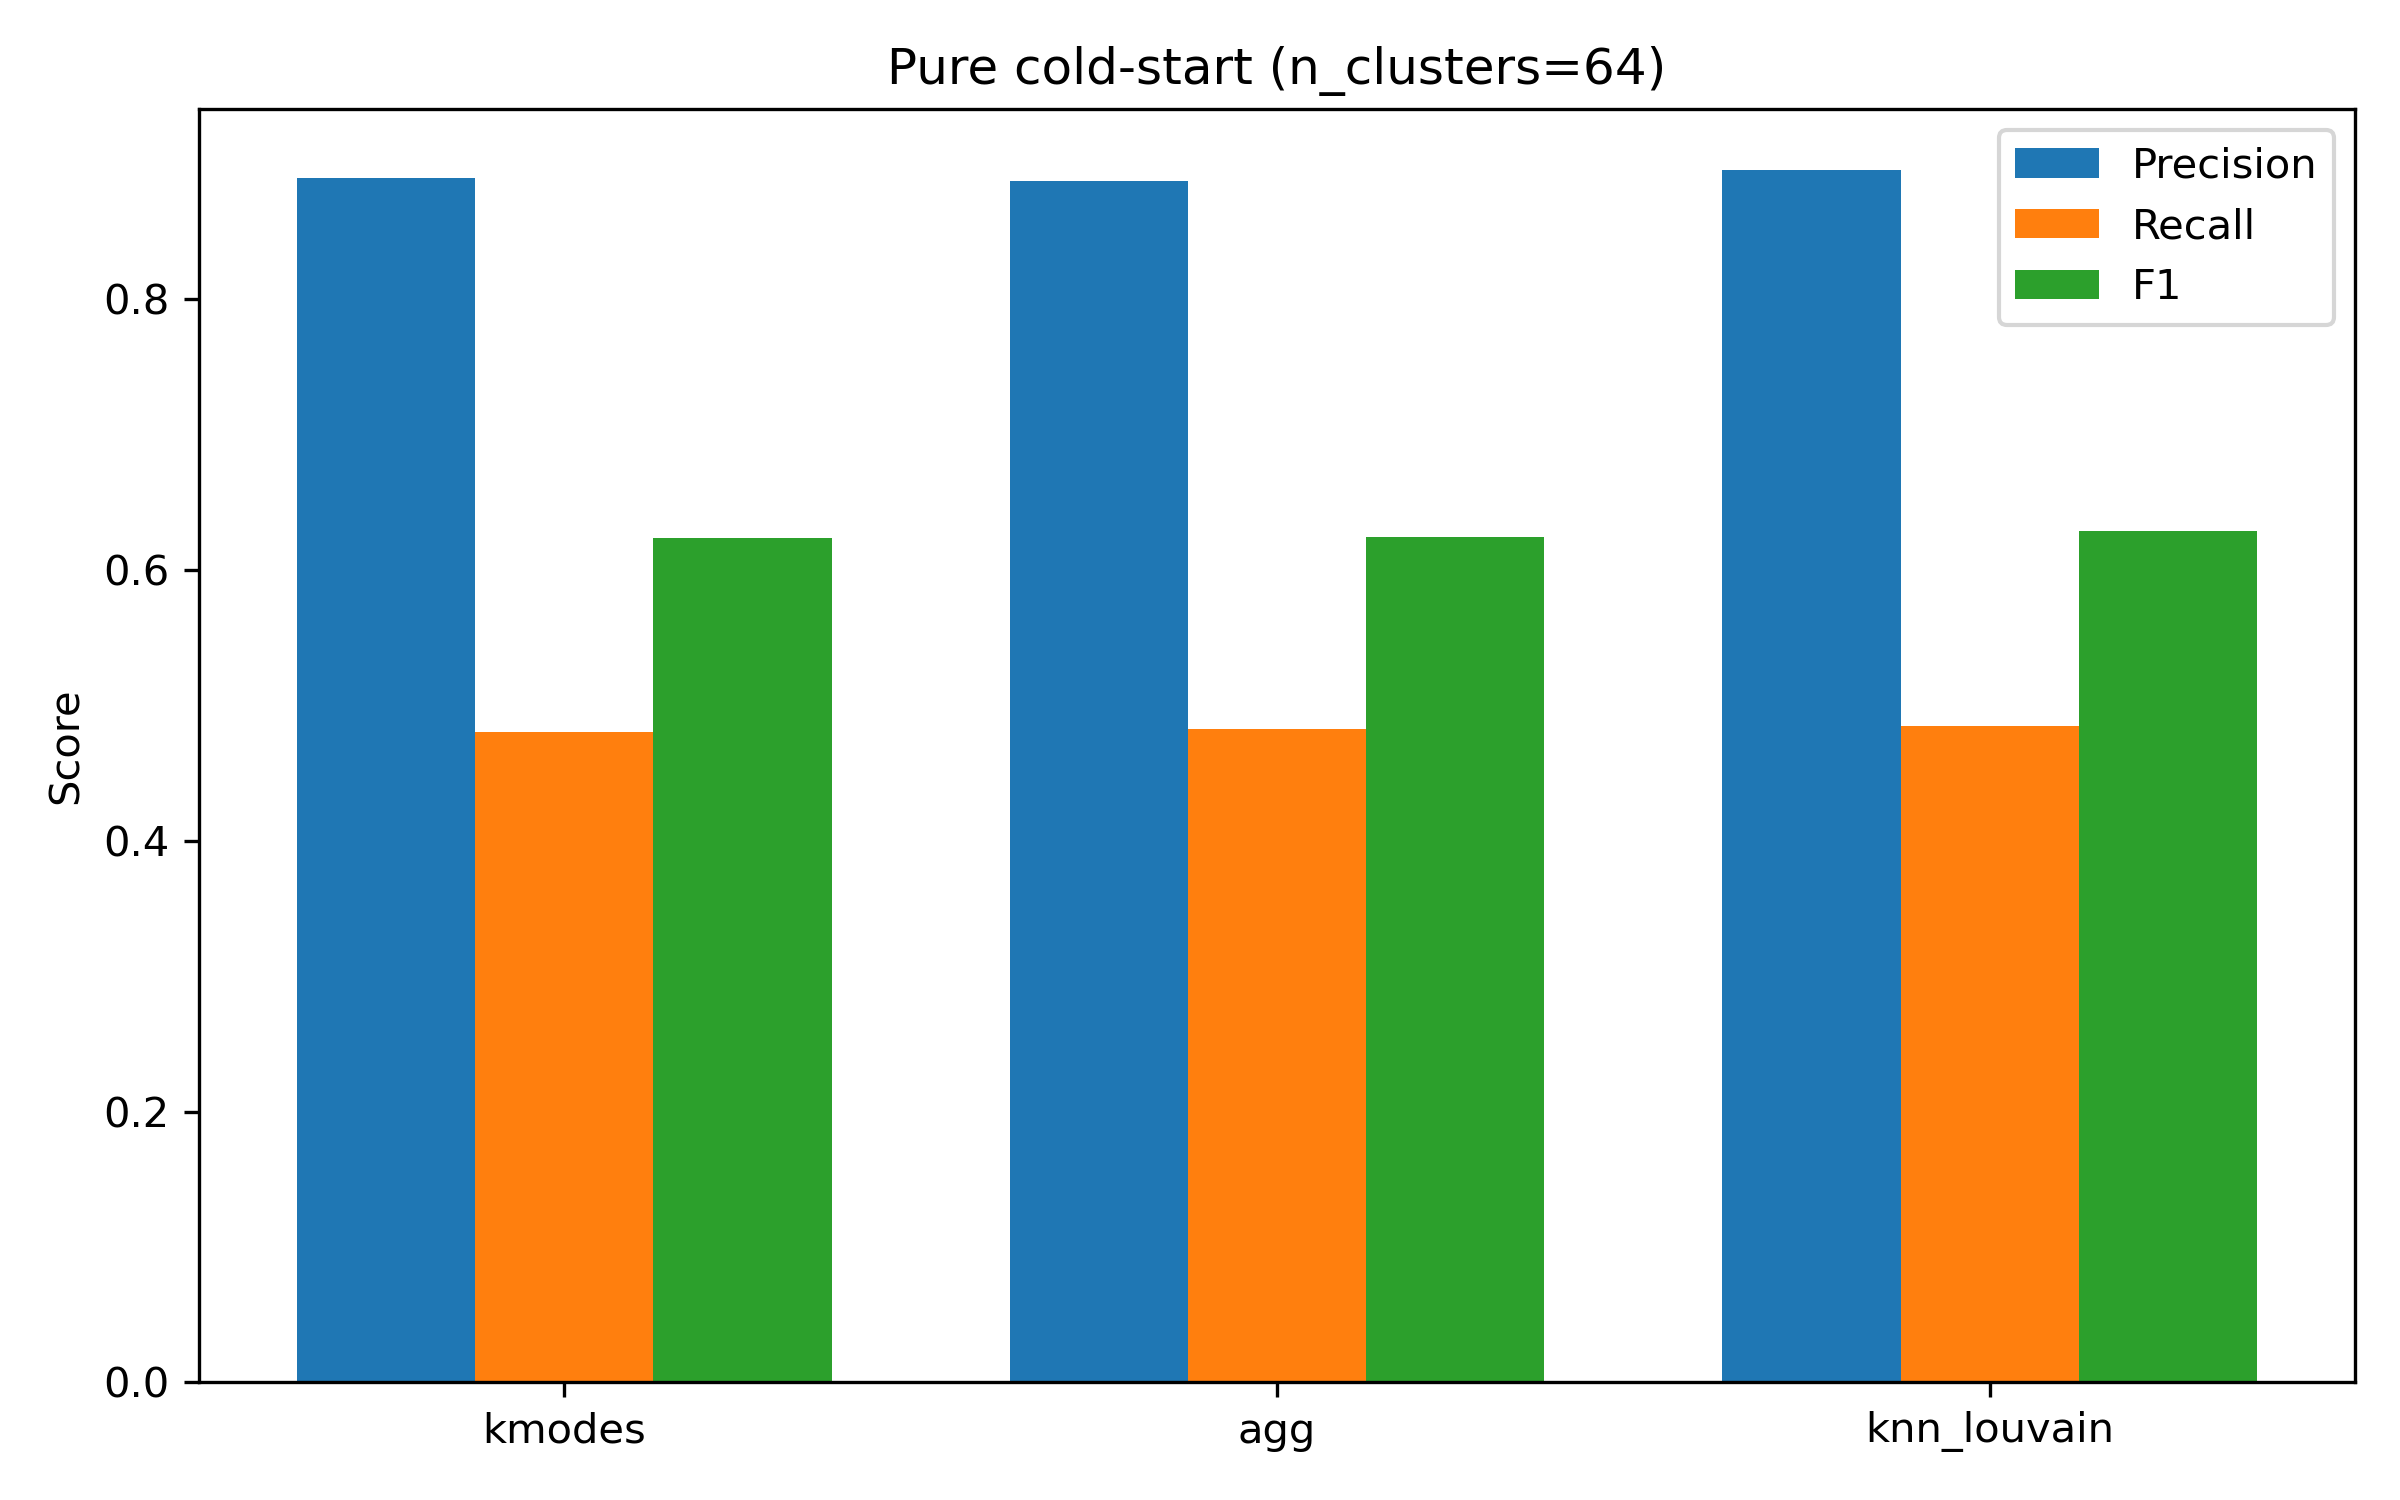
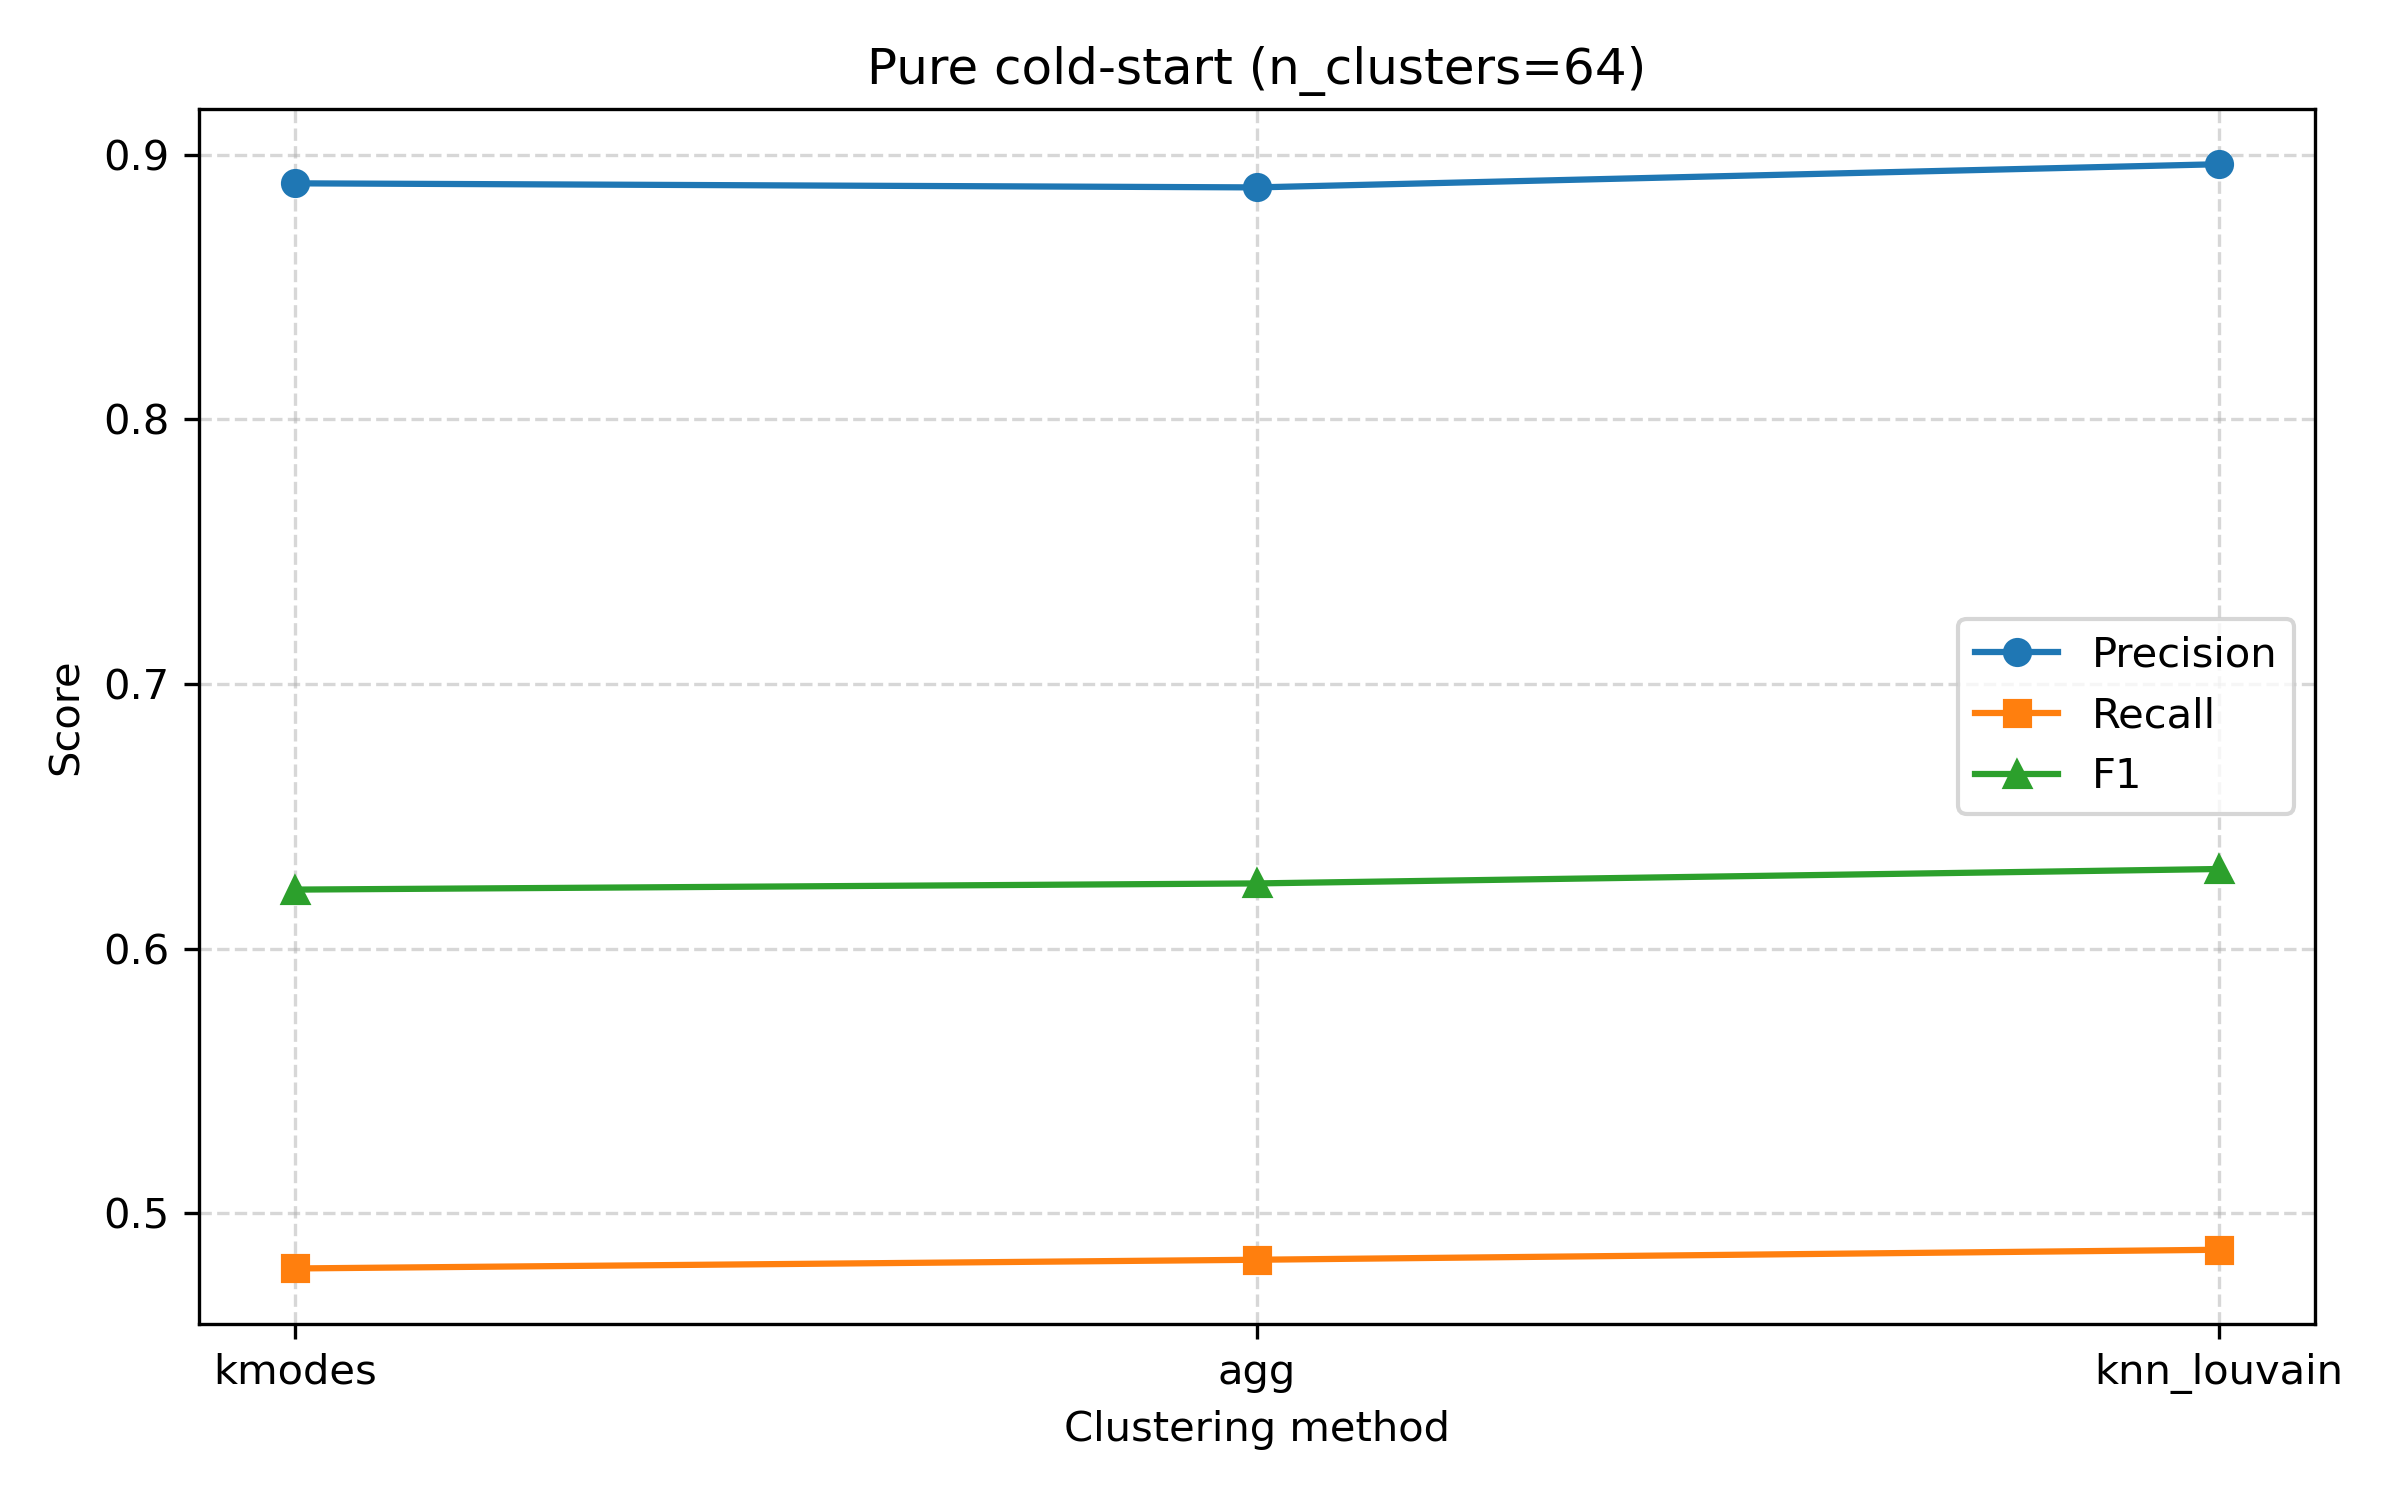
clustering plot update

diff --git a/compare_cluster_methods.py b/compare_cluster_methods.py
@@ -183,6 +183,29 @@ def run_semi_cold_for_method(
     return mean_prec, mean_rec, mean_f1, total_cells, total_pos_cells
 
 
+# def plot_method_comparison(
+#     methods: List[str],
+#     precisions: List[float],
+#     recalls: List[float],
+#     f1s: List[float],
+#     out_path: str,
+#     title: str,
+# ):
+#     x = np.arange(len(methods))
+#     width = 0.25
+
+#     plt.figure(figsize=(8, 5))
+#     plt.bar(x - width, precisions, width, label="Precision")
+#     plt.bar(x, recalls, width, label="Recall")
+#     plt.bar(x + width, f1s, width, label="F1")
+
+#     plt.xticks(x, methods)
+#     plt.ylabel("Score")
+#     plt.title(title)
+#     plt.legend()
+#     plt.tight_layout()
+#     plt.savefig(out_path, dpi=300)
+#     print(f"[INFO] Saved method comparison plot to: {out_path}")
 def plot_method_comparison(
     methods: List[str],
     precisions: List[float],
@@ -192,20 +215,24 @@ def plot_method_comparison(
     title: str,
 ):
     x = np.arange(len(methods))
-    width = 0.25
 
     plt.figure(figsize=(8, 5))
-    plt.bar(x - width, precisions, width, label="Precision")
-    plt.bar(x, recalls, width, label="Recall")
-    plt.bar(x + width, f1s, width, label="F1")
+
+    plt.plot(x, precisions, marker="o", label="Precision")
+    plt.plot(x, recalls,    marker="s", label="Recall")
+    plt.plot(x, f1s,        marker="^", label="F1")
 
     plt.xticks(x, methods)
+    plt.xlabel("Clustering method")
     plt.ylabel("Score")
     plt.title(title)
+
+    plt.grid(True, linestyle="--", alpha=0.5)
     plt.legend()
     plt.tight_layout()
     plt.savefig(out_path, dpi=300)
     print(f"[INFO] Saved method comparison plot to: {out_path}")
+
 
 
 def main():
